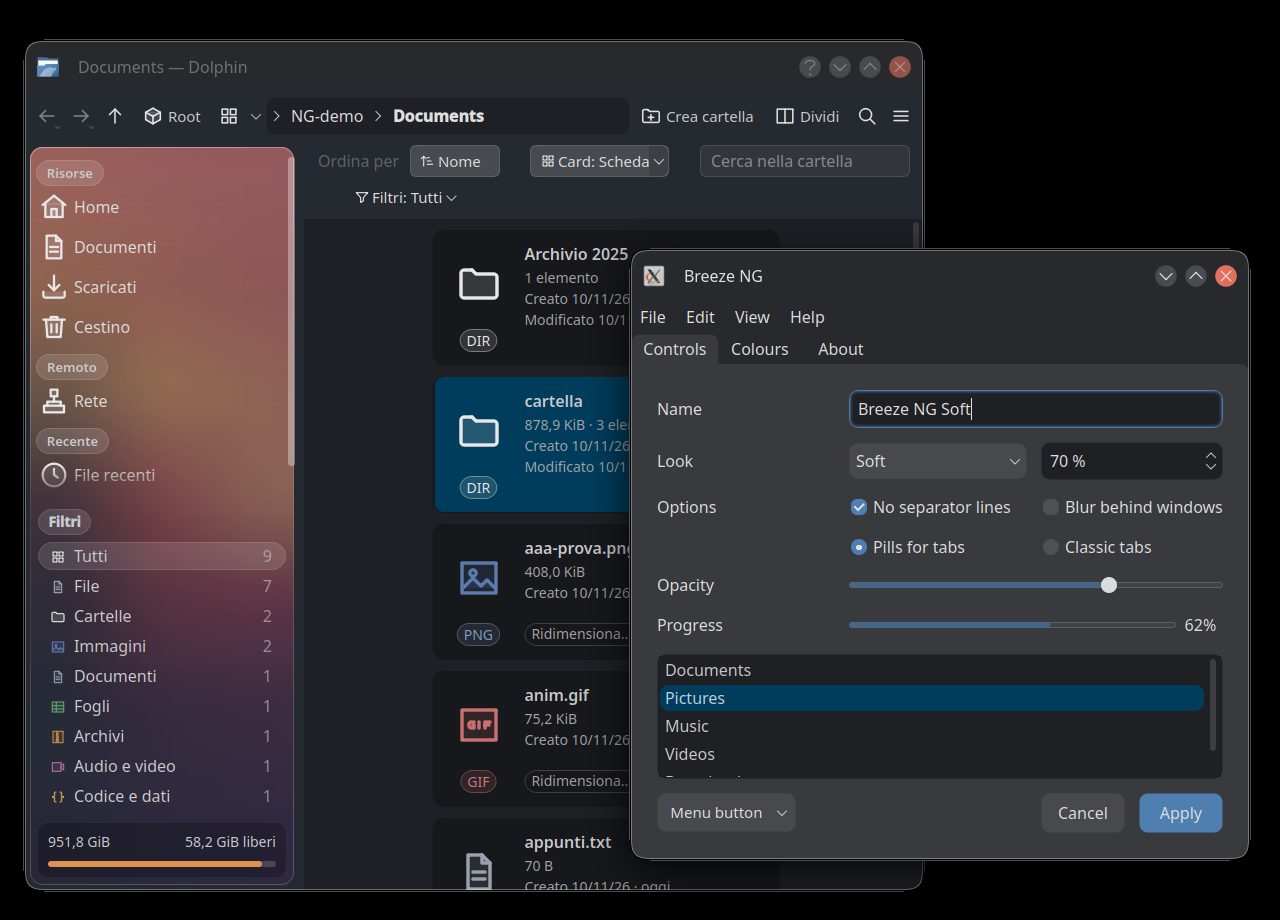
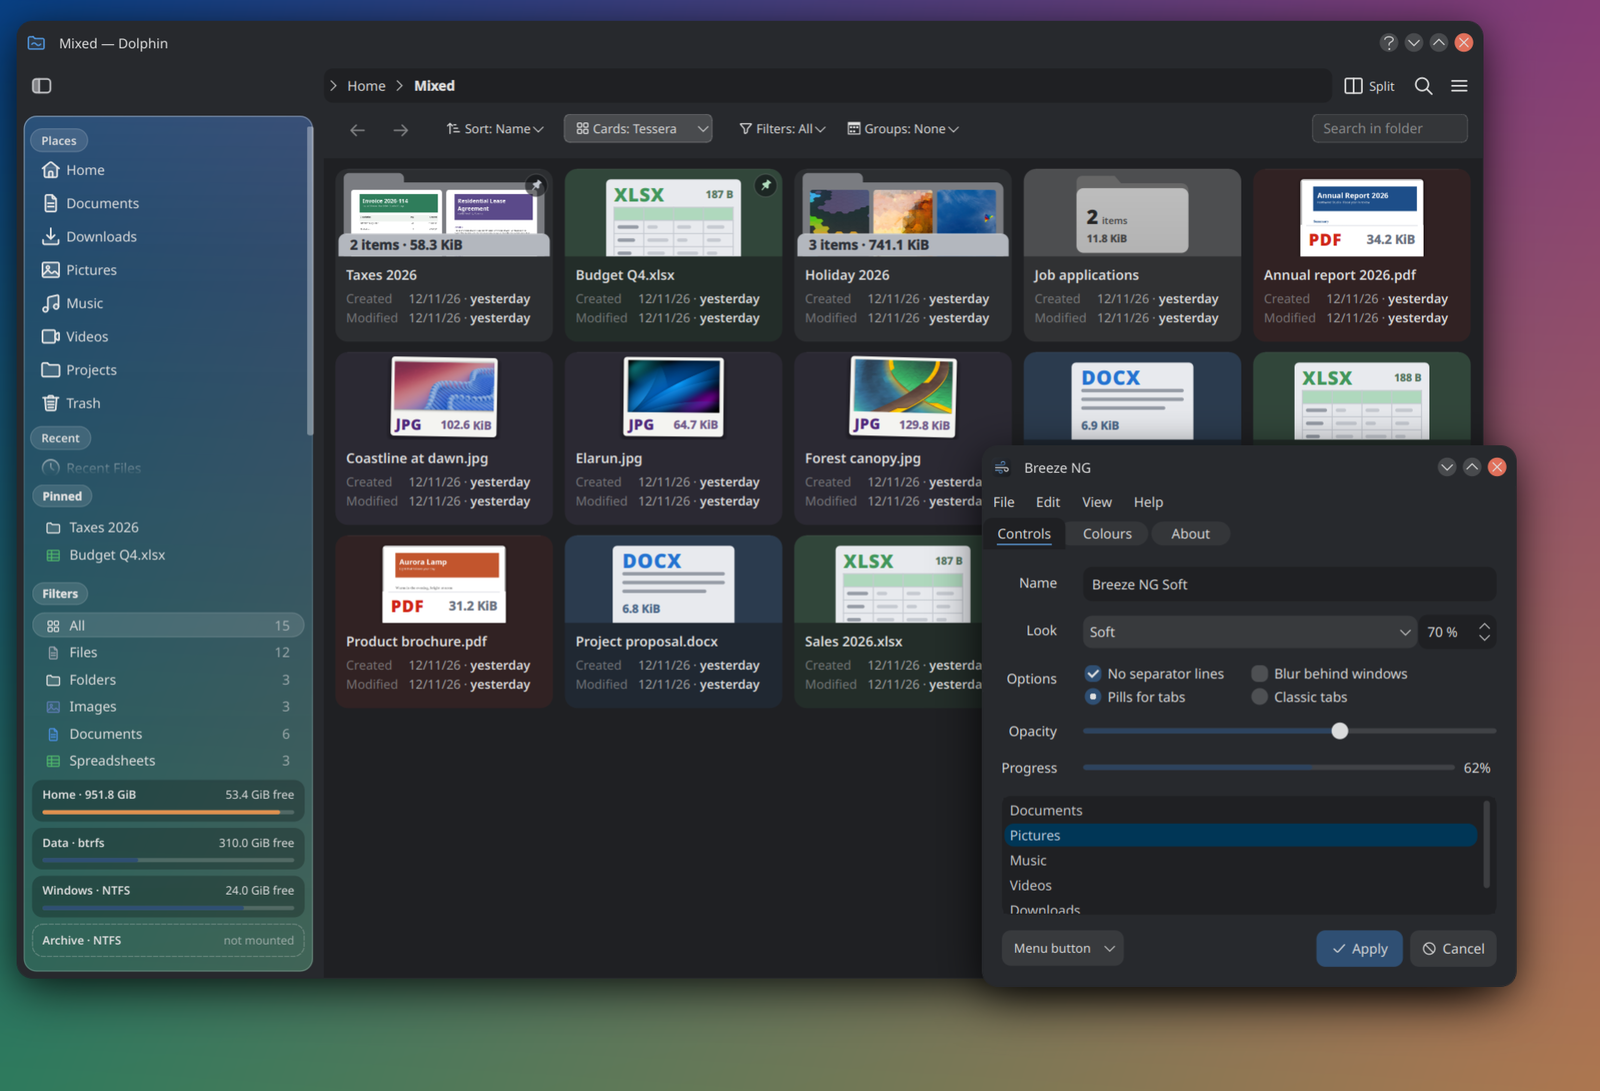
New screenshots: current Dolphin NG, the controls in English, both installer pages
ng/demo-controls.py is the small window with the common controls of the first screenshot,
kept in the repository so the screenshots can be taken again.

diff --git a/ng/demo-controls.py b/ng/demo-controls.py
@@ -1,0 +1,127 @@
+#!/usr/bin/env python3
+# SPDX-License-Identifier: GPL-2.0-or-later
+"""A small window with the common controls, to see Breeze NG at a glance (and for the screenshots in NG.md).
+
+    python3 ng/demo-controls.py              in the current widget style
+    python3 ng/demo-controls.py -style BreezeNG
+
+It changes nothing: every control is only for show.
+"""
+import os
+import sys
+
+try:
+    from PyQt6.QtCore import Qt
+    from PyQt6.QtGui import QIcon
+    from PyQt6.QtWidgets import (QApplication, QCheckBox, QComboBox, QDialogButtonBox, QFormLayout, QGridLayout,
+                                 QHBoxLayout, QLineEdit, QListWidget, QMainWindow, QMenu, QProgressBar, QRadioButton,
+                                 QSlider, QSpinBox, QTabWidget, QToolButton, QVBoxLayout, QWidget, QLabel)
+except ImportError:
+    from PySide6.QtCore import Qt
+    from PySide6.QtGui import QIcon
+    from PySide6.QtWidgets import (QApplication, QCheckBox, QComboBox, QDialogButtonBox, QFormLayout, QGridLayout,
+                                   QHBoxLayout, QLineEdit, QListWidget, QMainWindow, QMenu, QProgressBar, QRadioButton,
+                                   QSlider, QSpinBox, QTabWidget, QToolButton, QVBoxLayout, QWidget, QLabel)
+
+
+def controls_page():
+    page = QWidget()
+    form = QFormLayout()
+    form.setHorizontalSpacing(24)
+    form.setVerticalSpacing(12)
+
+    name = QLineEdit("Breeze NG Soft")
+    form.addRow("Name", name)
+
+    look = QHBoxLayout()
+    variant = QComboBox()
+    variant.addItems(["Soft", "Glass", "Stock Breeze"])
+    opacity = QSpinBox()
+    opacity.setRange(0, 100)
+    opacity.setValue(70)
+    opacity.setSuffix(" %")
+    look.addWidget(variant, 1)
+    look.addWidget(opacity)
+    form.addRow("Look", look)
+
+    options = QGridLayout()
+    options.setHorizontalSpacing(24)
+    options.addWidget(QCheckBox("No separator lines", checked=True), 0, 0)
+    options.addWidget(QCheckBox("Blur behind windows"), 0, 1)
+    options.addWidget(QRadioButton("Pills for tabs", checked=True), 1, 0)
+    options.addWidget(QRadioButton("Classic tabs"), 1, 1)
+    form.addRow("Options", options)
+
+    slider = QSlider(Qt.Orientation.Horizontal)
+    slider.setValue(62)
+    form.addRow("Opacity", slider)
+
+    progress = QProgressBar()
+    progress.setValue(62)
+    form.addRow("Progress", progress)
+
+    places = QListWidget()
+    places.addItems(["Documents", "Pictures", "Music", "Videos", "Downloads"])
+    places.setCurrentRow(1)
+    places.setMaximumHeight(118)
+
+    menu_button = QToolButton()
+    menu_button.setText("Menu button")
+    menu_button.setPopupMode(QToolButton.ToolButtonPopupMode.InstantPopup)
+    menu_button.setToolButtonStyle(Qt.ToolButtonStyle.ToolButtonTextOnly)
+    menu = QMenu(menu_button)
+    for label in ("Open", "Rename", "Move to Trash"):
+        menu.addAction(label)
+    menu_button.setMenu(menu)
+
+    buttons = QDialogButtonBox(QDialogButtonBox.StandardButton.Cancel | QDialogButtonBox.StandardButton.Apply)
+    buttons.button(QDialogButtonBox.StandardButton.Apply).setDefault(True)
+
+    bottom = QHBoxLayout()
+    bottom.addWidget(menu_button)
+    bottom.addStretch(1)
+    bottom.addWidget(buttons)
+
+    box = QVBoxLayout(page)
+    box.setContentsMargins(18, 18, 18, 18)
+    box.setSpacing(14)
+    box.addLayout(form)
+    box.addWidget(places)
+    box.addLayout(bottom)
+    return page
+
+
+def text_page(text):
+    page = QWidget()
+    box = QVBoxLayout(page)
+    box.setContentsMargins(18, 18, 18, 18)
+    label = QLabel(text)
+    label.setWordWrap(True)
+    box.addWidget(label)
+    box.addStretch(1)
+    return page
+
+
+def main():
+    app = QApplication(sys.argv)
+    app.setWindowIcon(QIcon(os.path.join(os.path.dirname(os.path.abspath(__file__)), "logo.png")))
+    window = QMainWindow()
+    window.setWindowTitle("Breeze NG")
+    for title, items in (("File", ["New", "Open…", "Save", "Quit"]), ("Edit", ["Undo", "Redo", "Cut", "Copy", "Paste"]),
+                         ("View", ["Zoom In", "Zoom Out"]), ("Help", ["About"])):
+        m = window.menuBar().addMenu(title)
+        for item in items:
+            m.addAction(item)
+    tabs = QTabWidget()
+    tabs.setDocumentMode(True)
+    tabs.addTab(controls_page(), "Controls")
+    tabs.addTab(text_page("The colour scheme Breeze NG was designed on: BreezeNG."), "Colours")
+    tabs.addTab(text_page("Breeze NG, a fork of KDE's Breeze widget style with two looks, Soft and Glass."), "About")
+    window.setCentralWidget(tabs)
+    window.resize(640, 600)
+    window.show()
+    sys.exit(app.exec())
+
+
+if __name__ == "__main__":
+    main()

diff --git a/NG.md b/NG.md
@@ -25,9 +25,9 @@ Both looks share: no separator lines anywhere, menus with padded rounded panels 
 current item, tabs that are one sheet with their panel, a neon glow inside fields and buttons that have the focus,
 and a menu opened from a button that joins it into one shape.
 
-![Dolphin NG and, on the right, a demo window showing the controls in Breeze NG Soft (not a settings window)](ng/screenshots/01-desktop.png)
+![Dolphin NG and, on the right, a small demo window with the common controls in Breeze NG Soft (ng/demo-controls.py)](ng/screenshots/01-desktop.png)
 
-![Dolphin NG in Breeze NG, its sidebar showing the compositor's blur of the desktop](ng/screenshots/05-dolphin-live-blur.png)
+![Dolphin NG in Breeze NG, its glass sidebar showing the compositor's blur of the desktop](ng/screenshots/05-dolphin-live-blur.png)
 
 ## Part of the NG desktop
 
@@ -92,7 +92,12 @@ they are external projects, not part of this one. The installer only builds them
 their READMEs describe, and installs them system-wide (the one step outside your home folder). For anything about
 them, refer to their repositories.
 
-![The graphical installer: choosing the look and the icons](ng/screenshots/06-installer.png)
+| What to install | Choose a look |
+|---|---|
+| <img src="ng/screenshots/07-installer-parts.png" width="420" alt="The graphical installer: the parts to install"> | <img src="ng/screenshots/06-installer.png" width="420" alt="The graphical installer: choosing the look and the icons"> |
+
+`ng/demo-controls.py` opens the small window of the first screenshot, with the common controls, to see the style at a
+glance.
 
 ## Build and install
 
